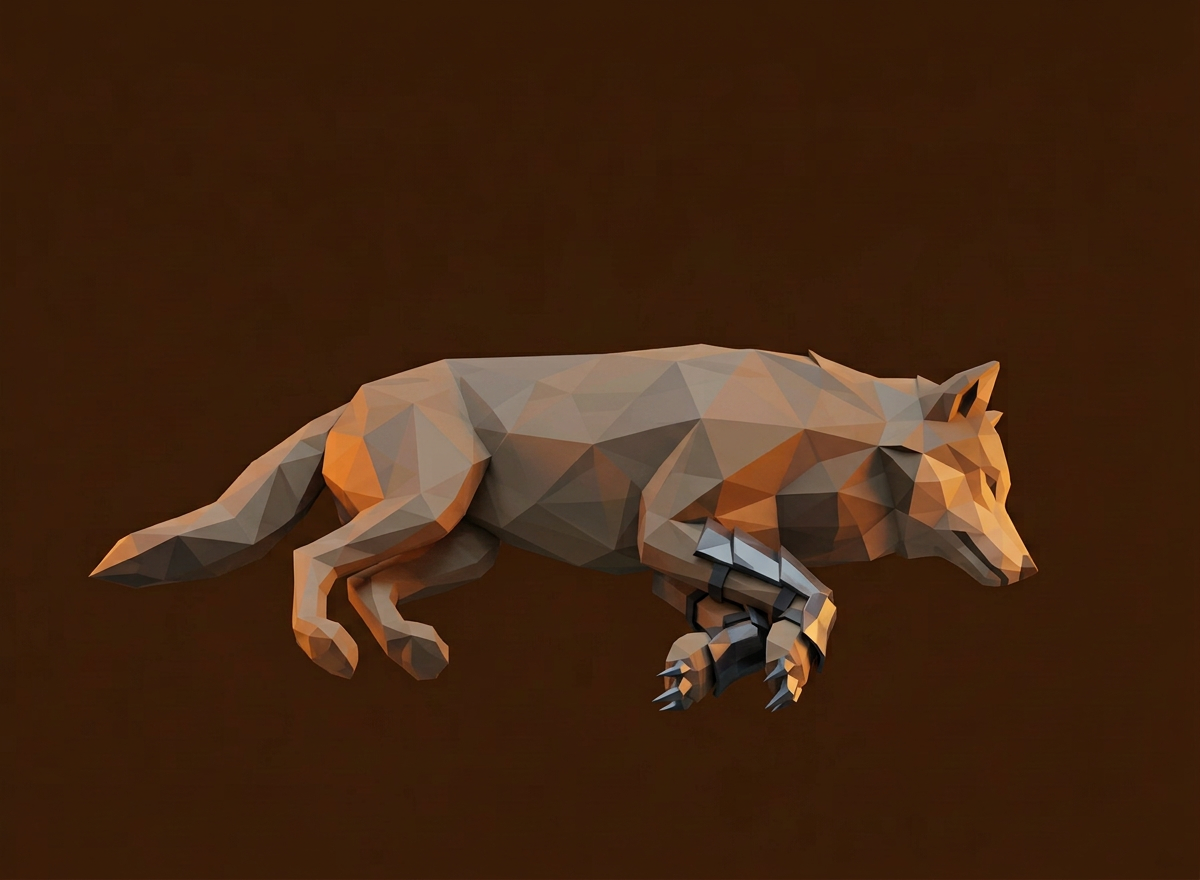
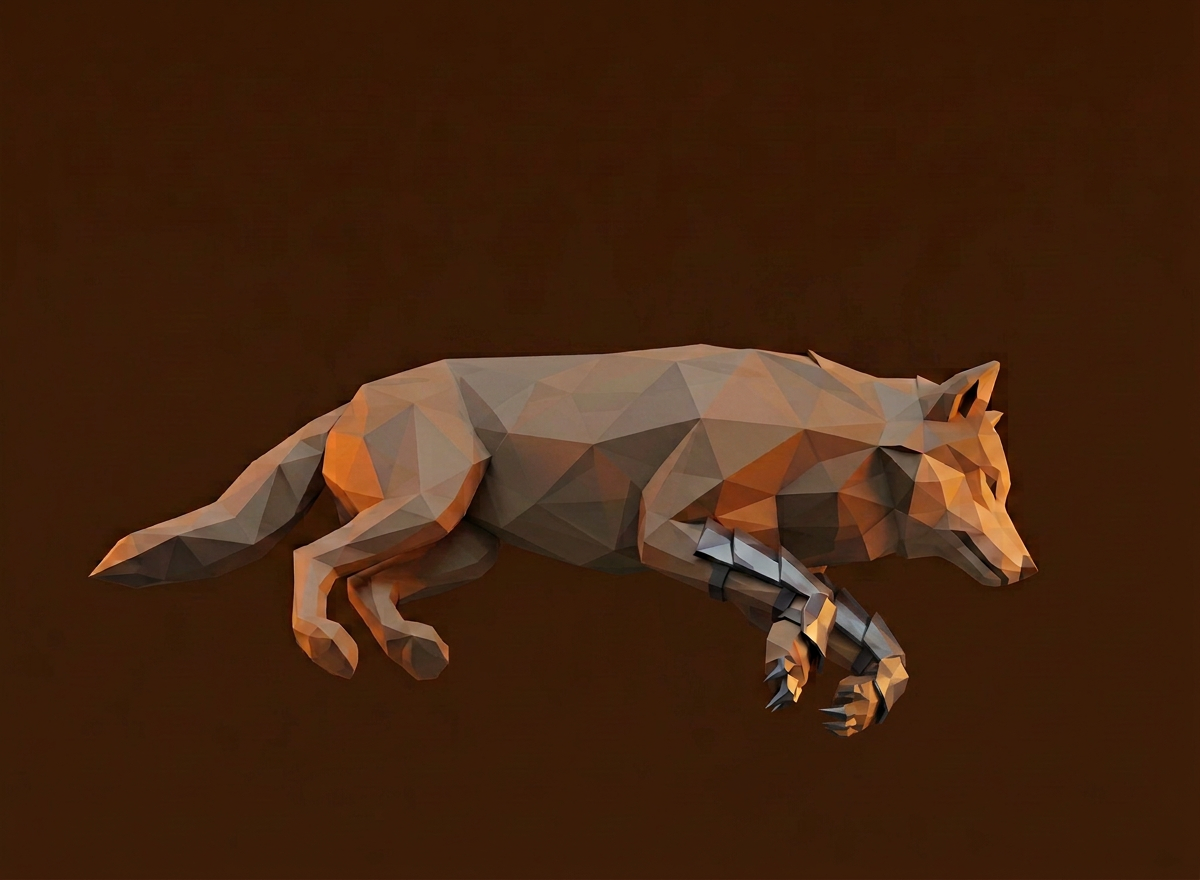
Gêmeos (fonte): Patas, correções de ataque e morte (atk_4 com duas patas, death_3/4/5/6 sem pata esticada e sem sombra); manifesto atualizado

Changed region(s): [[0.5242, 0.6443, 0.7708, 0.8284]]

diff --git a/art-source/gemeos-lowpoly/README.md b/art-source/gemeos-lowpoly/README.md
@@ -24,8 +24,8 @@ Os quadros v7 foram gerados a partir da base v2 para uniformizar o desenho. Os q
 | Repouso | `idle: 4` | `patas_idle_0..4` (5) | Escolhidos 4: `idle_0`, `idle_2`, `idle_3`, `idle_4`. `idle_1` fica de fora (brilho isolado na pata). Conferir no jogo |
 | Caminhada | `walk: 16` | `patas_walk_key_0..7` (8 de 8) + `patas_walk_mid_0..7` (8 de 8) | **Completa, 16 de 16, mas ainda não conferida em ampliação quadro a quadro.** `key_0` e `mid_0..3` são v9 e `mid_4..7` são v10, sem sombra, sem linha de chão e sem tom roxo na medição |
 | Dano | `hurt: 3` | `patas_hurt_0..2` | Aceito |
-| Ataque | `attack: 9` | `patas_atk_0..8` | Aceito. `atk_2`, `atk_4` e `atk_5` refeitos (v10) com a pata dianteira mais curta, sem esticar à frente. Conferir no jogo |
-| Morte | `death: 7` | `patas_death_0..6` | **Pendente.** `death_3` e `death_4` ainda com a pata dianteira esticada para frente; `death_4` mais claro que os outros. Versões novas reprovadas por sombra ou pose errada. `death_6` tem uma alternativa v9 (sem sombra, cor um pouco mais clara), ainda não aceita |
+| Ataque | `attack: 9` | `patas_atk_0..8` | Aceito com ressalva. `atk_2`, `atk_4` e `atk_5` refeitos. `atk_4` v12 tem exatamente duas patas de aço (uma terceira pata foi removida), mas a pose ficou menos de ataque: sem boca aberta. Conferir no jogo |
+| Morte | `death: 7` | `patas_death_0..6` | Pendente de aprovação final. `death_3` v13a, `death_4` v12, `death_5` v12 e `death_6` v13 (sem sombra; só uma perna de aço visível de perfil, conferir). `death_0..2` antigos, sem reconferência em ampliação |
 
 ## Mandíbula v2/v7 (mandíbula de aço grande e visível, também com a boca fechada; pernas sem aço)
 A v1 tinha mandíbula pequena e não aparecia com a boca fechada. A v2 foi refeita a partir dela; os quadros da v1 foram removidos.
@@ -37,7 +37,7 @@ A v1 tinha mandíbula pequena e não aparecia com a boca fechada. A v2 foi refei
 | Caminhada | `walk: 16` | `mandibula_v2_walk_key_0..7` + `mandibula_v2_walk_mid_0..7` (16 de 16) | Quadros-chave: `key_0,4,5,6` são v7; `key_1,2,3,7` são v2. Intermediários `mid_N` entre `key_N` e `key_N+1` (o último fecha em `key_0`). Conferidos em folha, não em ampliação quadro a quadro |
 | Dano | `hurt: 3` | `mandibula_v2_hurt_0..2` (3 de 3) | Aceito |
 | Ataque | `attack: 9` | `mandibula_v2_atk_0..8` (9 de 9) | Aceito. `atk_3` v4, `atk_4` v7, `atk_5` v3, demais v2 |
-| Morte | `death: 7` | `patas_death_0..6` | **Pendente.** `death_3` e `death_4` ainda com a pata dianteira esticada para frente; `death_4` mais claro que os outros. Versões novas reprovadas por sombra ou pose errada. `death_6` tem uma alternativa v9 (sem sombra, cor um pouco mais clara), ainda não aceita |
+| Morte | `death: 7` | `patas_death_0..6` | Pendente de aprovação final. `death_3` v13a, `death_4` v12, `death_5` v12 e `death_6` v13 (sem sombra; só uma perna de aço visível de perfil, conferir). `death_0..2` antigos, sem reconferência em ampliação |
 
 ## Descartados (não estão aqui)
 - Versões cinzas das Patas (`patas_base_cinza`, `patas_key_*`): o usuário pediu o corpo laranja.
